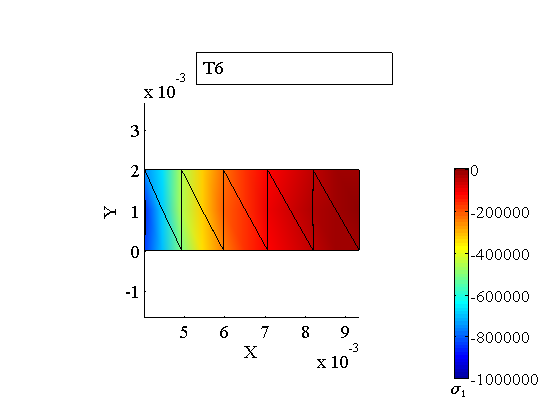
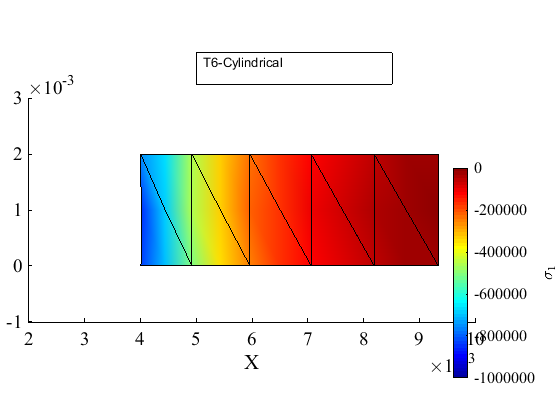
Correction of inspect_integration_points

diff --git a/fineale/examples/deformation_linear/statics/2-d/html/pub_thick_pipe_axi.html b/fineale/examples/deformation_linear/statics/2-d/html/pub_thick_pipe_axi.html
@@ -6,7 +6,7 @@
    <!--
 This HTML was auto-generated from MATLAB code.
 To make changes, update the MATLAB code and republish this document.
-      --><title>Thick pipe with internal pressure: axially symmetric model</title><meta name="generator" content="MATLAB 8.0"><link rel="schema.DC" href="http://purl.org/dc/elements/1.1/"><meta name="DC.date" content="2015-01-18"><meta name="DC.source" content="pub_thick_pipe_axi.m"><style type="text/css">
+      --><title>Thick pipe with internal pressure: axially symmetric model</title><meta name="generator" content="MATLAB 8.4"><link rel="schema.DC" href="http://purl.org/dc/elements/1.1/"><meta name="DC.date" content="2015-12-18"><meta name="DC.source" content="pub_thick_pipe_axi.m"><style type="text/css">
 html,body,div,span,applet,object,iframe,h1,h2,h3,h4,h5,h6,p,blockquote,pre,a,abbr,acronym,address,big,cite,code,del,dfn,em,font,img,ins,kbd,q,s,samp,small,strike,strong,sub,sup,tt,var,b,u,i,center,dl,dt,dd,ol,ul,li,fieldset,form,label,legend,table,caption,tbody,tfoot,thead,tr,th,td{margin:0;padding:0;border:0;outline:0;font-size:100%;vertical-align:baseline;background:transparent}body{line-height:1}ol,ul{list-style:none}blockquote,q{quotes:none}blockquote:before,blockquote:after,q:before,q:after{content:'';content:none}:focus{outine:0}ins{text-decoration:none}del{text-decoration:line-through}table{border-collapse:collapse;border-spacing:0}
 
 html { min-height:100%; margin-bottom:1px; }
@@ -23,7 +23,7 @@ a:visited { color:#004aa0; text-decoration:none; }
 
 p { padding:0px; margin:0px 0px 20px; }
 img { padding:0px; margin:0px 0px 20px; border:none; }
-p img, pre img, tt img, li img { margin-bottom:0px; } 
+p img, pre img, tt img, li img, h1 img, h2 img { margin-bottom:0px; } 
 
 ul { padding:0px; margin:0px 0px 20px 23px; list-style:square; }
 ul li { padding:0px; margin:0px 0px 7px 0px; }
@@ -38,11 +38,12 @@ ol li ul li { list-style:square; }
 
 .content { font-size:1.2em; line-height:140%; padding: 20px; }
 
-pre, tt, code { font-size:12px; }
+pre, code { font-size:12px; }
+tt { font-size: 1.2em; }
 pre { margin:0px 0px 20px; }
-pre.error { color:red; }
 pre.codeinput { padding:10px; border:1px solid #d3d3d3; background:#f7f7f7; }
 pre.codeoutput { padding:10px 11px; margin:0px 0px 20px; color:#4c4c4c; }
+pre.error { color:red; }
 
 @media print { pre.codeinput, pre.codeoutput { word-wrap:break-word; width:100%; } }
 
@@ -65,7 +66,7 @@ table td { padding:7px 5px; text-align:left; vertical-align:top; border:1px soli
 
 
 
-  </style></head><body><div class="content"><h1>Thick pipe with internal pressure: axially symmetric model</h1><!--introduction--><!--/introduction--><h2>Contents</h2><div><ul><li><a href="#2">Description</a></li><li><a href="#8">Solution</a></li><li><a href="#36">Discussion</a></li></ul></div><p>Link to the  <a href="matlab:edit('pub_thick_pipe_axi')">m-file</a>.</p><h2>Description<a name="2"></a></h2><p>This is a simple modification of the full three-dimensional simulation of the tutorial pub_thick_pipe that implements the axially-symmetric model reduction procedure.</p><p>An infinitely long thick walled cylindrical pipe with inner boundary radius of 3 mm and outer boundary radius of 9 mm is subjected to an internal pressure of 1.0 MPa. A wedge   with thickness of 2 mm and a 90-degree angle sector is considered for the finite element analysis. The material properties are taken as  isotropic linear elastic with <img src="pub_thick_pipe_axi_eq12783.png" alt="$E=1000$"> MPa and <img src="pub_thick_pipe_axi_eq04077.png" alt="$\nu=0.4999$"> to represent nearly incompressible behavior. This problem has been proposed to by MacNeal and Harder as a test of an element's ability to represent the  response of a nearly incompressible material. The plane-strain condition is assumed in the axial direction of the pipe which together with the radial symmetry confines the material in all but the radial direction and therefore amplifies the numerical difficulties associated with the confinement of the nearly incompressible material.</p><p>There is an analytical solution to this problem. Timoshenko and Goodier presented the original solution of Lame in their textbook. We are going to compare with  both the stress distribution (radial and hoop stresses) and the displacement of the inner  cylindrical surface.</p><p>
+  </style></head><body><div class="content"><h1>Thick pipe with internal pressure: axially symmetric model</h1><!--introduction--><!--/introduction--><h2>Contents</h2><div><ul><li><a href="#2">Description</a></li><li><a href="#8">Solution</a></li><li><a href="#36">Discussion</a></li></ul></div><p>Link to the  <a href="matlab:edit('pub_thick_pipe_axi')">m-file</a>.</p><h2>Description<a name="2"></a></h2><p>This is a simple modification of the full three-dimensional simulation of the tutorial pub_thick_pipe that implements the axially-symmetric model reduction procedure.</p><p>An infinitely long thick walled cylindrical pipe with inner boundary radius of 3 mm and outer boundary radius of 9 mm is subjected to an internal pressure of 1.0 MPa. A wedge   with thickness of 2 mm and a 90-degree angle sector is considered for the finite element analysis. The material properties are taken as  isotropic linear elastic with <img src="pub_thick_pipe_axi_eq17257192073853546320.png" alt="$E=1000$"> MPa and <img src="pub_thick_pipe_axi_eq03077024200717292670.png" alt="$\nu=0.4999$"> to represent nearly incompressible behavior. This problem has been proposed to by MacNeal and Harder as a test of an element's ability to represent the  response of a nearly incompressible material. The plane-strain condition is assumed in the axial direction of the pipe which together with the radial symmetry confines the material in all but the radial direction and therefore amplifies the numerical difficulties associated with the confinement of the nearly incompressible material.</p><p>There is an analytical solution to this problem. Timoshenko and Goodier presented the original solution of Lame in their textbook. We are going to compare with  both the stress distribution (radial and hoop stresses) and the displacement of the inner  cylindrical surface.</p><p>
 <table border=0><tr><td>
 <img src="../docs/pub_thick_pipe_axi.png" width = "30%">
 </td></tr>
@@ -157,11 +158,31 @@ surface_integration_rule = surface integration rule</pre><pre class="codeinput">
         model_data.postprocessing.u_scale= 200;
         model_data.postprocessing.stress_component=1;
         model_data.postprocessing.stress_range=[-p,0];
+        <span class="comment">%         model_data.postprocessing.outputRm =[cos(90/180*pi),-sin(90/180*pi);</span>
+        <span class="comment">%             sin(90/180*pi),cos(90/180*pi)];</span>
         model_data=deformation_plot_stress(model_data);
         draw_annotation(model_data.postprocessing.gv,<span class="keyword">...</span>
-            [0.35, 0.8, 0.35, 0.075],description,<span class="keyword">...</span>
+            [0.35, 0.8, 0.35, 0.075],[description,<span class="string">'-Cylindrical'</span>],<span class="keyword">...</span>
             struct(<span class="string">'backgroundcolor'</span>,<span class="string">'w'</span>))
         view(2);
+        snapnow;
+
+        <span class="comment">% Produce a plot of the radial stress component in an ad hoc output coordinate system.</span>
+        <span class="comment">% This coordinate system is rotated from the cylindrical coordinate</span>
+        <span class="comment">% system in the plane of the generating section by 90?. Therefore,</span>
+        <span class="comment">% the radial stress component will be 2.</span>
+        model_data.postprocessing.u_scale= 200;
+        model_data.postprocessing.stress_component=2;
+        model_data.postprocessing.stress_range=[-p,0];
+        <span class="comment">% Define the output coordinate system:</span>
+        model_data.postprocessing.outputRm =[cos(90/180*pi),-sin(90/180*pi);
+            sin(90/180*pi),cos(90/180*pi)];
+        model_data=deformation_plot_stress(model_data);
+        draw_annotation(model_data.postprocessing.gv,<span class="keyword">...</span>
+            [0.35, 0.8, 0.35, 0.075],[description,<span class="string">'-Ad hoc'</span>],<span class="keyword">...</span>
+            struct(<span class="string">'backgroundcolor'</span>,<span class="string">'w'</span>))
+        view(2);
+        snapnow;
 
         <span class="comment">% Produce a plot of the solution components in the cylindrical</span>
         <span class="comment">% coordinate system.</span>
@@ -202,7 +223,7 @@ surface_integration_rule = surface integration rule</pre><pre class="codeinput">
     surface_integration_rule=gauss_rule(struct(<span class="string">'dim'</span>,1, <span class="string">'order'</span>, 3));
     execute_simulation (description, mf, femmf, surface_integration_rule);
 </pre><pre class="codeoutput">(Approximate/true displacement) at the internal surface: 99.837%
-</pre><img vspace="5" hspace="5" src="pub_thick_pipe_axi_01.png" alt=""> <img vspace="5" hspace="5" src="pub_thick_pipe_axi_02.png" alt=""> <p>The same remedy of selective reduced integration as in full 3-D models will also work here.  Is demonstrated by the simulation with the selective reduced integration quadratic triangle.</p><p><b>Selective reduced integration quadratic triangle</b></p><pre class="codeinput">    description =<span class="string">'T6-SRI'</span>;
+</pre><img vspace="5" hspace="5" src="pub_thick_pipe_axi_01.png" alt=""> <img vspace="5" hspace="5" src="pub_thick_pipe_axi_02.png" alt=""> <img vspace="5" hspace="5" src="pub_thick_pipe_axi_03.png" alt=""> <p>The same remedy of selective reduced integration as in full 3-D models will also work here.  Is demonstrated by the simulation with the selective reduced integration quadratic triangle.</p><p><b>Selective reduced integration quadratic triangle</b></p><pre class="codeinput">    description =<span class="string">'T6-SRI'</span>;
     mf =@T6_block;
     femmf =@(fes)femm_deformation_linear_sri(struct(<span class="string">'fes'</span>,fes,<span class="keyword">...</span>
         <span class="string">'material'</span>,mater,<span class="keyword">...</span>
@@ -211,7 +232,7 @@ surface_integration_rule = surface integration rule</pre><pre class="codeinput">
     surface_integration_rule=gauss_rule(struct(<span class="string">'dim'</span>,1, <span class="string">'order'</span>, 3));
     execute_simulation (description, mf, femmf, surface_integration_rule);
 </pre><pre class="codeoutput">(Approximate/true displacement) at the internal surface: 100.3951%
-</pre><img vspace="5" hspace="5" src="pub_thick_pipe_axi_03.png" alt=""> <img vspace="5" hspace="5" src="pub_thick_pipe_axi_04.png" alt=""> <p>The selective reduced integration works very well with the T6 triangle.</p><p>An element that is often used in these situations is the uniformly under integrated serendipity (8-node) quadrilateral.</p><p><b>Reduced integration serendipity quadrilateral</b></p><pre>The same finite
+</pre><img vspace="5" hspace="5" src="pub_thick_pipe_axi_04.png" alt=""> <img vspace="5" hspace="5" src="pub_thick_pipe_axi_05.png" alt=""> <img vspace="5" hspace="5" src="pub_thick_pipe_axi_06.png" alt=""> <p>The selective reduced integration works very well with the T6 triangle.</p><p>An element that is often used in these situations is the uniformly under integrated serendipity (8-node) quadrilateral.</p><p><b>Reduced integration serendipity quadrilateral</b></p><pre>The same finite
 element model machine as above is used, and the integration is the 2
 x 2 Gauss rule (one order lower than that required for full
 integration which would be 3 x 3).</pre><pre class="codeinput">    description =<span class="string">'Q8R'</span>;
@@ -222,7 +243,7 @@ integration which would be 3 x 3).</pre><pre class="codeinput">    description =
     surface_integration_rule=gauss_rule(struct(<span class="string">'dim'</span>,1, <span class="string">'order'</span>,3));
     execute_simulation (description, mf, femmf, surface_integration_rule);
 </pre><pre class="codeoutput">(Approximate/true displacement) at the internal surface: 100%
-</pre><img vspace="5" hspace="5" src="pub_thick_pipe_axi_05.png" alt=""> <img vspace="5" hspace="5" src="pub_thick_pipe_axi_06.png" alt=""> <p><b>Full integration serendipity quadrilateral</b></p><p>Using the full-integration Gauss rule of 3 x 3 points clearly leads to disaster.</p><pre class="codeinput">    description =<span class="string">'Q8'</span>;
+</pre><img vspace="5" hspace="5" src="pub_thick_pipe_axi_07.png" alt=""> <img vspace="5" hspace="5" src="pub_thick_pipe_axi_08.png" alt=""> <img vspace="5" hspace="5" src="pub_thick_pipe_axi_09.png" alt=""> <p><b>Full integration serendipity quadrilateral</b></p><p>Using the full-integration Gauss rule of 3 x 3 points clearly leads to disaster.</p><pre class="codeinput">    description =<span class="string">'Q8'</span>;
     mf =@Q8_block;
     femmf =@(fes)femm_deformation_linear(struct(<span class="string">'fes'</span>,fes,<span class="keyword">...</span>
         <span class="string">'material'</span>,mater,<span class="keyword">...</span>
@@ -230,8 +251,8 @@ integration which would be 3 x 3).</pre><pre class="codeinput">    description =
     surface_integration_rule=gauss_rule(struct(<span class="string">'dim'</span>,1, <span class="string">'order'</span>,3));
     execute_simulation (description, mf, femmf, surface_integration_rule);
 </pre><pre class="codeoutput">(Approximate/true displacement) at the internal surface: 95.2401%
-</pre><img vspace="5" hspace="5" src="pub_thick_pipe_axi_07.png" alt=""> <img vspace="5" hspace="5" src="pub_thick_pipe_axi_08.png" alt=""> <p>The stress is now totally unacceptable.</p><h2>Discussion<a name="36"></a></h2><p>The axially symmetric model is clearly very effective computationally, as the size is much reduced compared to the 3-D model.  In conjunction with  uniform or selective reduced integration it can be very accurate as well.</p><pre class="codeinput"><span class="keyword">end</span>
-</pre><p class="footer"><br><a href="http://www.mathworks.com/products/matlab/">Published with MATLAB&reg; R2012b</a><br></p></div><!--
+</pre><img vspace="5" hspace="5" src="pub_thick_pipe_axi_10.png" alt=""> <img vspace="5" hspace="5" src="pub_thick_pipe_axi_11.png" alt=""> <img vspace="5" hspace="5" src="pub_thick_pipe_axi_12.png" alt=""> <p>The stress is now totally unacceptable.</p><h2>Discussion<a name="36"></a></h2><p>The axially symmetric model is clearly very effective computationally, as the size is much reduced compared to the 3-D model.  In conjunction with  uniform or selective reduced integration it can be very accurate as well.</p><pre class="codeinput"><span class="keyword">end</span>
+</pre><p class="footer"><br><a href="http://www.mathworks.com/products/matlab/">Published with MATLAB&reg; R2014b</a><br></p></div><!--
 ##### SOURCE BEGIN #####
 %% Thick pipe with internal pressure: axially symmetric model
 %
@@ -413,11 +434,31 @@ function pub_thick_pipe_axi
         model_data.postprocessing.u_scale= 200;
         model_data.postprocessing.stress_component=1;
         model_data.postprocessing.stress_range=[-p,0];
+        %         model_data.postprocessing.outputRm =[cos(90/180*pi),-sin(90/180*pi);
+        %             sin(90/180*pi),cos(90/180*pi)];
         model_data=deformation_plot_stress(model_data);
         draw_annotation(model_data.postprocessing.gv,...
-            [0.35, 0.8, 0.35, 0.075],description,...
+            [0.35, 0.8, 0.35, 0.075],[description,'-Cylindrical'],...
             struct('backgroundcolor','w'))
         view(2);
+        snapnow;
+        
+        % Produce a plot of the radial stress component in an ad hoc output coordinate system.  
+        % This coordinate system is rotated from the cylindrical coordinate
+        % system in the plane of the generating section by 90?. Therefore,
+        % the radial stress component will be 2.
+        model_data.postprocessing.u_scale= 200;
+        model_data.postprocessing.stress_component=2;
+        model_data.postprocessing.stress_range=[-p,0];
+        % Define the output coordinate system:
+        model_data.postprocessing.outputRm =[cos(90/180*pi),-sin(90/180*pi);
+            sin(90/180*pi),cos(90/180*pi)];
+        model_data=deformation_plot_stress(model_data);
+        draw_annotation(model_data.postprocessing.gv,...
+            [0.35, 0.8, 0.35, 0.075],[description,'-Ad hoc'],...
+            struct('backgroundcolor','w'))
+        view(2);
+        snapnow;
         
         % Produce a plot of the solution components in the cylindrical
         % coordinate system.

diff --git a/fineale/examples/deformation_linear/statics/2-d/pub_thick_pipe_ps.m b/fineale/examples/deformation_linear/statics/2-d/pub_thick_pipe_ps.m
@@ -190,14 +190,15 @@ function pub_thick_pipe_ps
         model_data.postprocessing.u_scale= 200;
         model_data.postprocessing.stress_component=1;
         model_data.postprocessing.stress_range=[-p,0];
-        % Note that we are supplying output orientation matrix for the
+        % Note that we are supplying an output orientation matrix for the
         % stress.
-        model_data.postprocessing.outputRm =@outputRm;
+        model_data.postprocessing.outputRm =@outputRm2D;
+        model_data.postprocessing.use_spr= true;% Superconvergent Patch Recovery
         model_data=deformation_plot_stress(model_data);
         draw_annotation(model_data.postprocessing.gv,...
             [0.35, 0.8, 0.35, 0.075],description,...
             struct('backgroundcolor','w'))
-        view(2);
+        view(2); pause(1);
         
         % Produce a plot of the solution components in the cylindrical
         % coordinate system.
@@ -232,7 +233,7 @@ function pub_thick_pipe_ps
     % This is a helper function for the calculation of the integration-point
     % stresses.
     function idat =inspector(idat, out, xyz, u, pc)
-        Rm= outputRm(xyz,[],[]);% transformation matrix for the stress
+        Rm= outputRm3D(xyz,[],[]);% transformation matrix for the stress
         tm = stress_4v_to_3x3t (mater,out);% stress in global XYZ
         tpm = Rm'*tm*Rm;%  stress matrix in cylindrical coordinates
         sp = stress_3x3t_to_6v(mater,tpm);% stress vector in cylindr. coord.
@@ -242,7 +243,7 @@ function pub_thick_pipe_ps
     
     % This is the function to compute the local orientation orthonormal
     % basis vectors for the cylindrical coordinate system.
-    function R=outputRm(c,J,lab)
+    function R=outputRm3D(c,J,lab)
         theNormal=c;
         r=norm(theNormal);% distance from the axis of symmetry
         theNormal =theNormal/r;% compute the unit normal vector
@@ -250,6 +251,13 @@ function pub_thick_pipe_ps
         e3p=[0,0,1]';% this one points along the axis of the cylinder
         e2p=skewmat(e3p)*e1p;% this one is along the hoop direction
         R= [e1p,e2p,e3p];% transformation matrix for the stress
+    end
+    
+    % This is the function to compute the local orientation orthonormal
+    % basis vectors for the cylindrical coordinate system.
+    function R=outputRm2D(c,J,lab)
+        R= outputRm3D(c,J,lab);
+        R=R(1:2,1:2);
     end
     
     

diff --git a/fineale/examples/deformation_linear/statics/2-d/THICK_ss_plate_pl_had.m b/fineale/examples/deformation_linear/statics/2-d/THICK_ss_plate_pl_had.m
@@ -1,12 +1,10 @@
-
-% Data listed in the Simo 1990 paper "A class of... " H-adaptive analysis.
 function  THICK_ss_plate_pl_had
-disp('Simply-supported square plate with pressure load');
+    disp('Simply-supported circular plate with pressure load');
     E=10.92e6;% The Young's modulus is taken  much larger to limit the amount of deflection
-nu=0.3;
-Magnitude=1.0;
-R=5.0;
-thickness=  1.0;
+    nu=0.3;
+    Magnitude=1.0;
+    R=5.0;
+    thickness=  1.0;
     Pressure=1.0;% Applied pressure
     
     Region_definition={...
@@ -14,18 +12,18 @@ thickness=  1.0;
         ['curve 2 line ' num2str(R) ' ' num2str(0) ' ' num2str(R) ' ' num2str(thickness) ],...
         ['curve 3 line ' num2str(R) ' ' num2str(thickness)  ' ' num2str(0) ' ' num2str(thickness) ],...
         ['curve 4 line ' num2str(0) ' ' num2str(thickness)  ' ' num2str(0) ' ' num2str(0) ],...
-       ['subregion 1  property 1 boundary 1 2 3 4 ']};
+        ['subregion 1  property 1 boundary 1 2 3 4 ']};
     Mesh_options =struct('axisymm',true,'quadratic',true);
     Targetnel=600;
     convergence_rate=1.5;
     graphics=~false;
     sigj=4;
-
+    
     % Mesh'
     mesh_size=R/4;
     [fens,fes,groups,edge_fes,edge_groups]...
         =targe2_mesher(cat(2,Region_definition,{['m-ctl-point constant ' num2str(mesh_size)]}), 1.0, Mesh_options);
-%     drawmesh({fens,fes},'fes','facecolor','red');  view(2); return
+    %     drawmesh({fens,fes},'fes','facecolor','red');  view(2); return
     
     
     for Adapt=1:7
@@ -74,14 +72,14 @@ thickness=  1.0;
         [hcurs, hests] =T3_mesh_sizes(fes.conn,geom.values,targeterr,elerrs,convergence_rate);
         
         fld1 = field_from_integration_points(femm, geom, u, [], 'Cauchy',sigj);
-         nvals=fld1.values;%min(nvals),max(nvals)
-           
+        nvals=fld1.values;%min(nvals),max(nvals)
+        
         if (graphics)
             gv=graphic_viewer;
             gv=reset (gv,struct ('limits',[0 1.06*R -0.5*thickness 1.6*thickness]));
             scale=1e4;
             cmap = jet;
-             nvalsrange=[min(nvals),max(nvals)];
+            nvalsrange=[min(nvals),max(nvals)];
             dcm=data_colormap(struct ('range',nvalsrange, 'colormap',cmap));
             colorfield=nodal_field(struct ('name', ['colorfield'], 'data',map_data(dcm, nvals)));
             geom3=nodal_field(struct ('name', ['geom3'], ...
